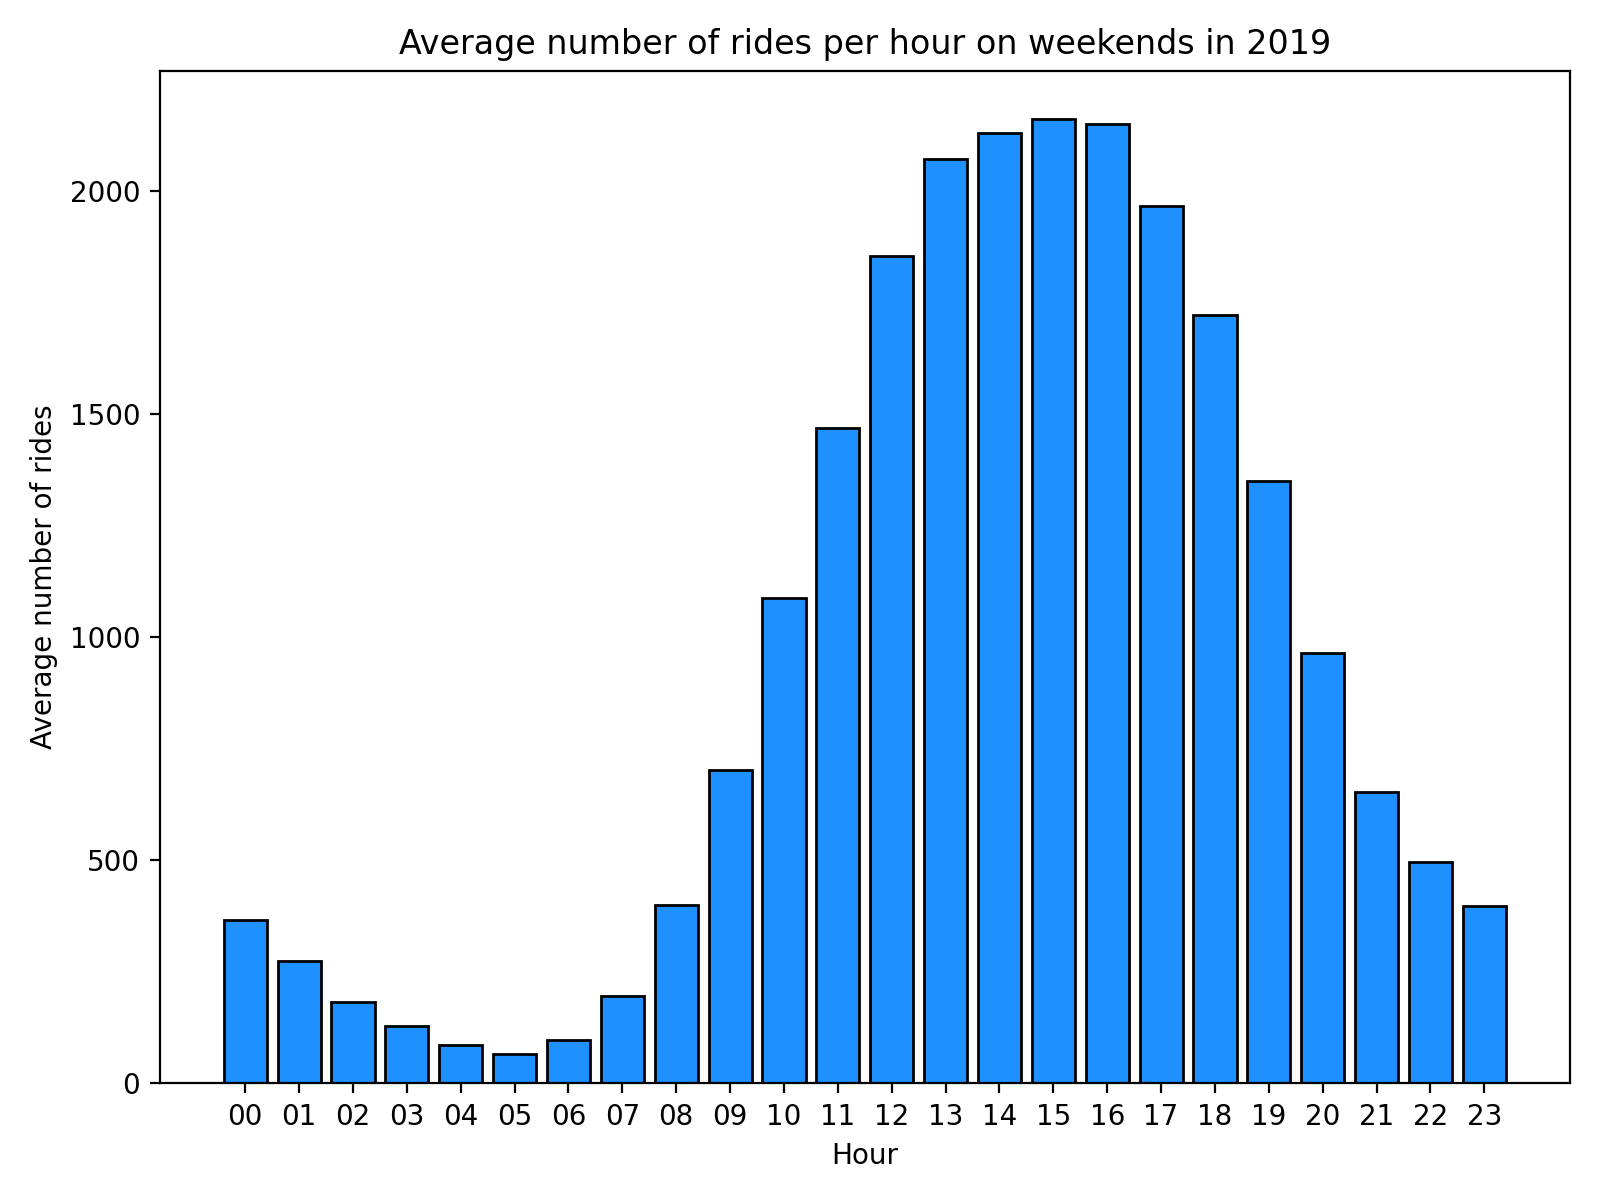
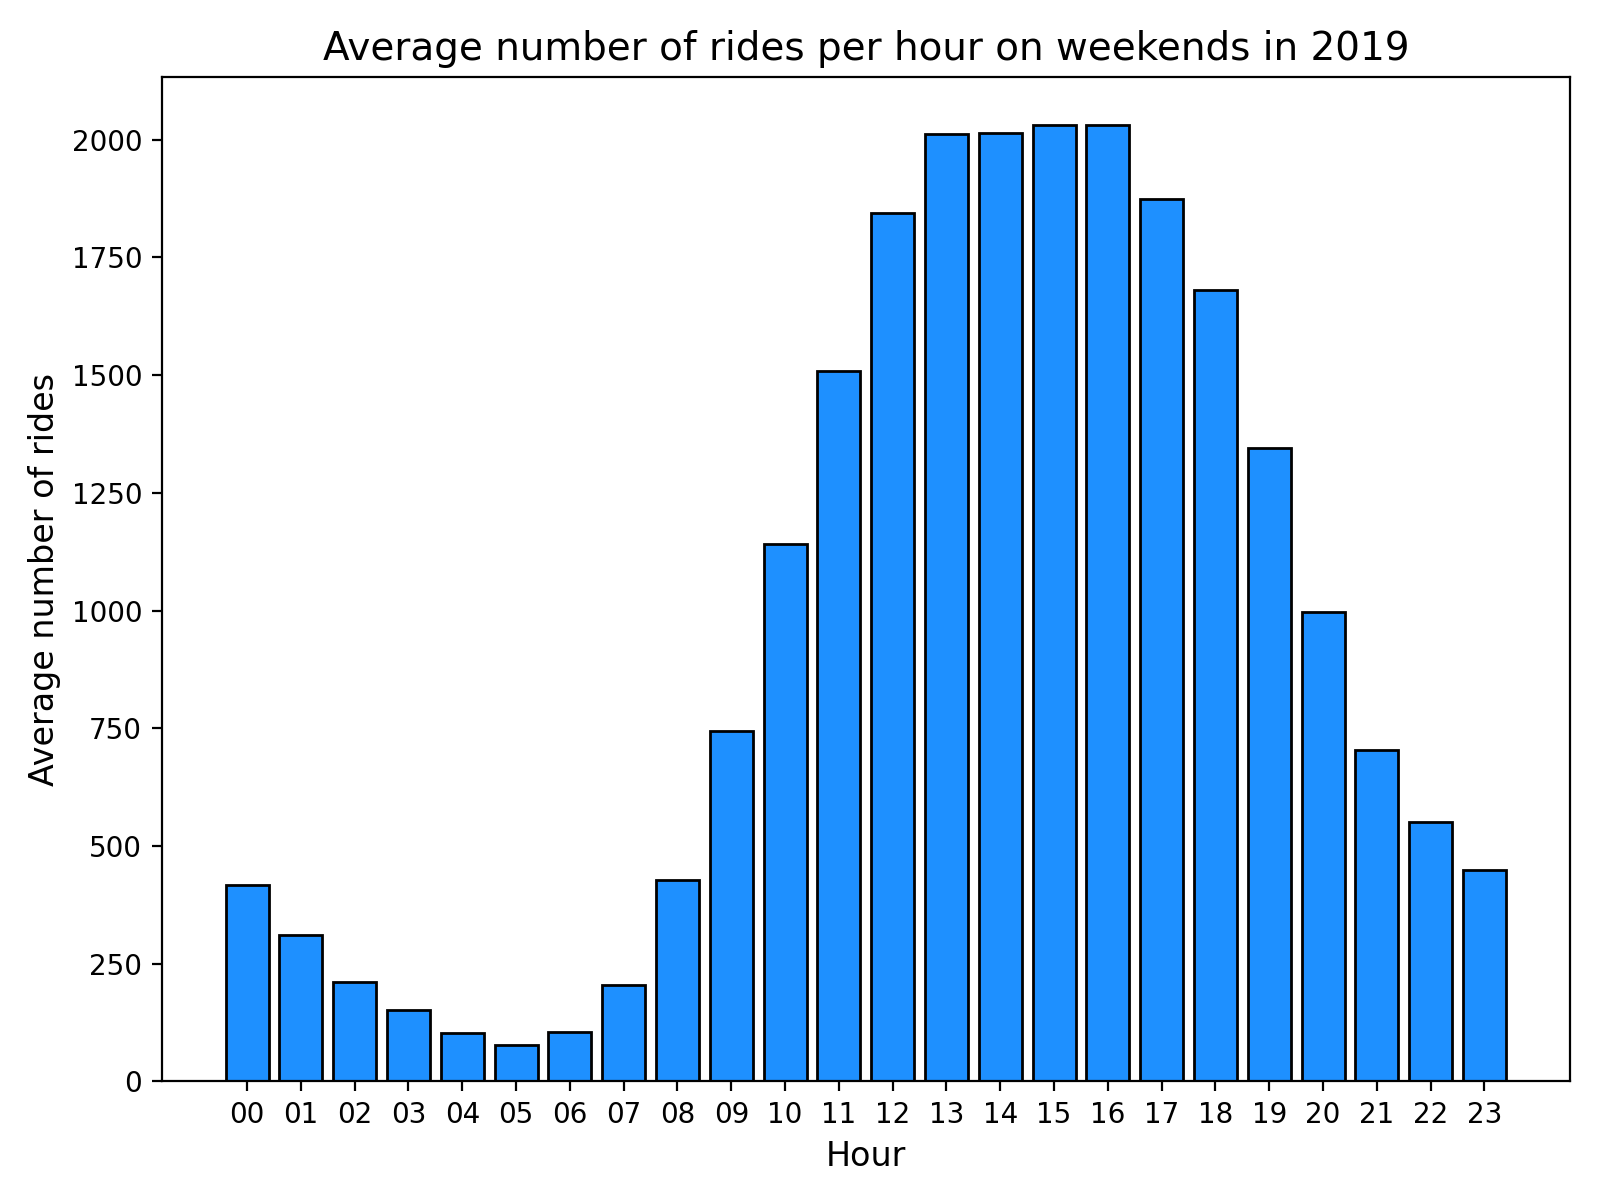
Increased font size for x and y labels and title

diff --git a/exploratory_data_analysis/avg_weekends.py b/exploratory_data_analysis/avg_weekends.py
@@ -18,6 +18,7 @@ query = ''' SELECT Hour,
                            COUNT(DISTINCT(Bike_Id)) AS Num_Bikes
                       FROM Journeys
                      WHERE strftime("%w", End_Date) IN ("0", "6")
+                       AND strftime("%Y", End_Date) = "2019"
                   GROUP BY Day, Hour
                     HAVING Duration > 0) GROUP BY Hour'''
 cur = con.execute(query)
@@ -29,9 +30,9 @@ results_df = pd.DataFrame(query_results, columns=[
 fig, ax = plt.subplots(figsize=(8, 6))
 ax.bar(results_df['Hour'], results_df['Avg_Rides'], color='dodgerblue',
        edgecolor='k')
-ax.set_xlabel('Hour')
-ax.set_ylabel('Average number of rides')
-ax.set_title('Average number of rides per hour on weekends in 2019')
+ax.set_xlabel('Hour', fontsize=12)
+ax.set_ylabel('Average number of rides', fontsize=12)
+ax.set_title('Average number of rides per hour on weekends in 2019', fontsize=14)
 # ax.grid(linestyle=':')
 fig.tight_layout()
 plt.show()
